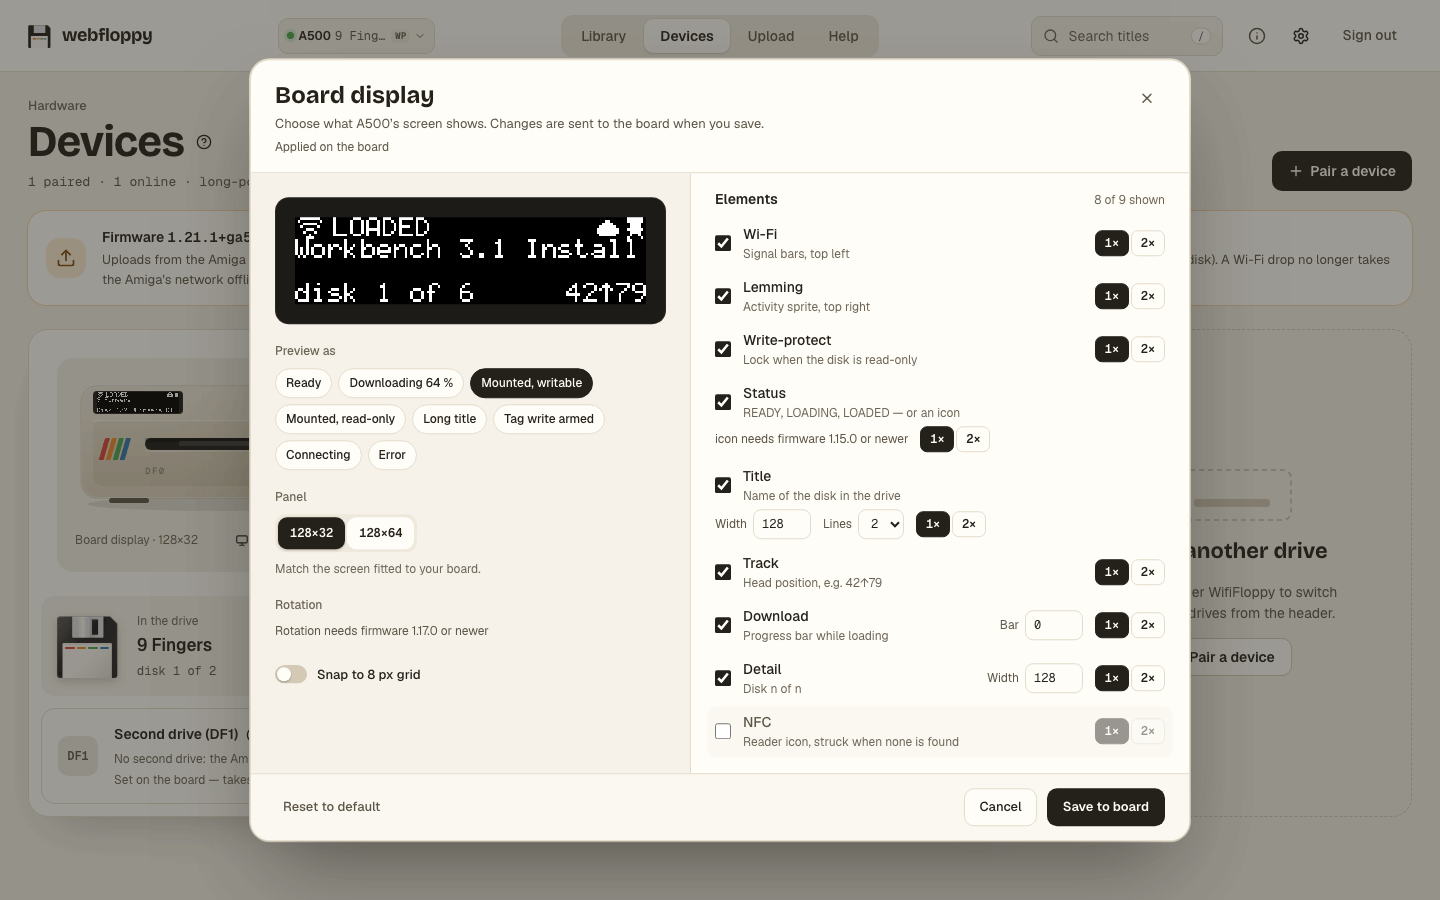
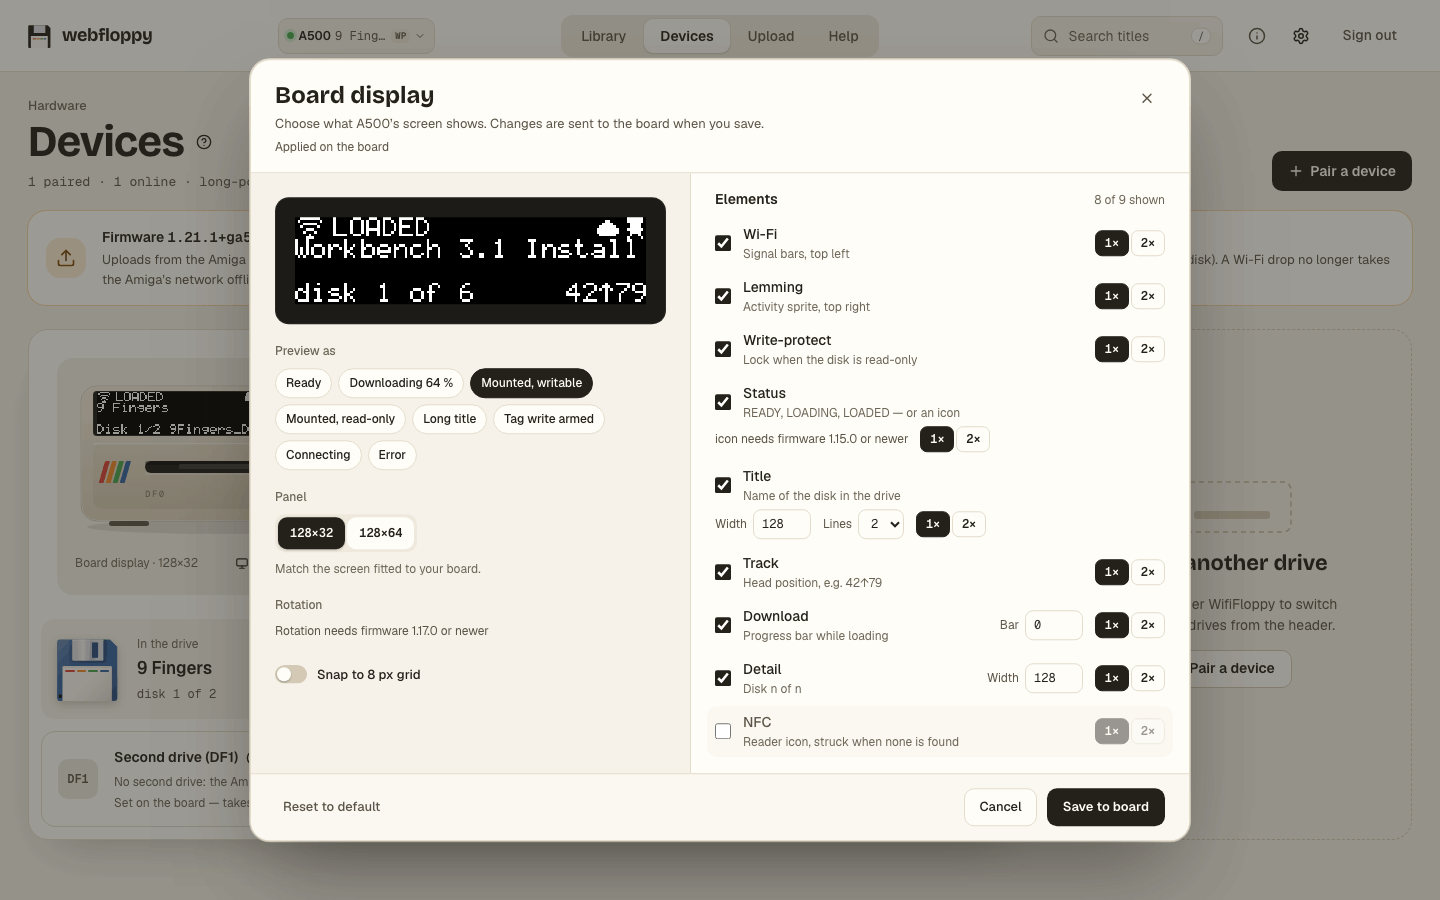
Devices: the board's OLED is drawn twice as large (180 of 304 units); the drive case grows to fit it
Claude-Session: https://claude.ai/code/session_014S2nFFB6otda3iPEfAnuwc

diff --git a/src/components/devices/drive-glass.tsx b/src/components/devices/drive-glass.tsx
@@ -8,7 +8,7 @@ import { paintFramebuffer } from '@/lib/display-paint';
 import { liveDisplayState, liveDisplayText } from '@/lib/live-display';
 import type { DeviceListItem } from '@/lib/queries';
 import { fromBase64 } from './display-editor';
-import { ART_H, ART_TALL_EXTRA, ART_W } from './drive-art';
+import { artHeight, ART_W, GLASS_W } from './drive-art';
 
 const ZOOM = 2;
 // The lemming's walk, at the editor's pace (display-editor.tsx).
@@ -18,7 +18,7 @@ const TICK_MS = 500;
  * The board's own screen, drawn over `DriveArt` (spec §3). The OLED is display.wasm -- the firmware's own renderer --
  * drawing the board's stored layout with what the board last reported (live-display.ts), so it is the board's
  * screen, not a picture of one. It is the button that opens the display editor, placed in percentages of the art's
- * viewBox (18 / 11 / 90 of 304 x 132; the 128x64 case is 153 tall) so it scales with the SVG.
+ * viewBox (left 18, top 11, GLASS_W wide; drive-art.tsx sizes the case around it) so it scales with the SVG.
  */
 export function DriveGlass({ device, online, onOpenDisplay }: {
   device: DeviceListItem; online: boolean; onOpenDisplay: (from: HTMLElement) => void;
@@ -66,13 +66,13 @@ export function DriveGlass({ device, online, onOpenDisplay }: {
   });
 
   const words = failed ? 'Display preview unavailable' : liveDisplayText(state);
-  const artH = ART_H + (rows === 64 ? ART_TALL_EXTRA : 0);
+  const artH = artHeight(rows === 64);
   return (
     <button type="button" onClick={(e) => onOpenDisplay(e.currentTarget)} aria-haspopup="dialog"
             aria-label={`Change display — showing: ${words}`}
             data-testid={`device-oled-${device.id}`} data-oled={words}
             className="absolute box-border block cursor-pointer rounded-[4px] bg-[#1C1B18] px-1 py-px shadow-[inset_0_0_0_1px_rgb(255_255_255/.06)] transition-transform hover:-translate-y-px hover:ring-2 hover:ring-[#EE8A2A] motion-reduce:transition-none motion-reduce:hover:translate-y-0 motion-reduce:hover:ring-0"
-            style={{ left: `${(18 / ART_W) * 100}%`, top: `${(11 / artH) * 100}%`, width: `${(90 / ART_W) * 100}%` }}>
+            style={{ left: `${(18 / ART_W) * 100}%`, top: `${(11 / artH) * 100}%`, width: `${(GLASS_W / ART_W) * 100}%` }}>
       <canvas ref={canvasRef} width={PANEL_W * ZOOM} height={rows * ZOOM}
               className="block h-auto w-full"
               style={{ background: '#000000', aspectRatio: `${PANEL_W} / ${rows}`, imageRendering: 'pixelated' }} />

diff --git a/src/components/devices/drive-art.tsx b/src/components/devices/drive-art.tsx
@@ -6,13 +6,27 @@ import { useId } from 'react';
  * only the LED follows the tokens (online / danger). Nothing on it is interactive: the board's screen is
  * `DriveGlass`, placed over it in percentages.
  *
- * `tall`: the 128x64 panel. The case is drawn 21 units taller (viewBox height 153) and everything from the bezel down
- * moves 21 units, so the taller glass fits in the top band. Gradient ids carry a per-instance suffix: an SVG id is
+ * The glass is drawn GLASS_W (180) of the art's 304 units wide -- twice the design's 90, which the operator found too
+ * small to read (2026-10-25). The case grows to fit it: 23 units taller for the 128x32 panel (viewBox 304 x 155), 68
+ * for the 128x64 one (`tall`, 304 x 200), and everything from the bezel down moves by that much, so the glass sits in
+ * the top band above the bezel. Gradient ids carry a per-instance suffix: an SVG id is
  * document-wide and two cards on a page must not share one.
  */
 export const ART_W = 304;
 export const ART_H = 132;
-export const ART_TALL_EXTRA = 21;
+export const GLASS_W = 180;
+const EXTRA = 23;
+const TALL_EXTRA = 68;
+
+/** The glass's height in art units: the panel at GLASS_W wide plus its 1-unit frame top and bottom. */
+export function glassHeight(tall: boolean): number {
+  return (GLASS_W * (tall ? 64 : 32)) / 128 + 2;
+}
+
+/** The art's viewBox height for the panel. */
+export function artHeight(tall: boolean): number {
+  return ART_H + (tall ? TALL_EXTRA : EXTRA);
+}
 
 export function DriveArt({ name, online, hasDisk, tall }: {
   name: string; online: boolean; hasDisk: boolean; tall: boolean;
@@ -21,7 +35,7 @@ export function DriveArt({ name, online, hasDisk, tall }: {
   const caseId = `mdCase${uid}`;
   const bezelId = `mdBezel${uid}`;
   const glowId = `mdGlow${uid}`;
-  const dy = tall ? ART_TALL_EXTRA : 0;
+  const dy = artHeight(tall) - ART_H;
   const led = online ? 'var(--online-dot)' : 'var(--danger-fg)';
   const aria = `${name}, ${online ? 'online' : 'offline'}, ${hasDisk ? 'disk in drive' : 'drive empty'}`;
   return (

diff --git a/src/components/devices/drive-art.test.ts b/src/components/devices/drive-art.test.ts
@@ -1,15 +1,23 @@
 import { createElement } from 'react';
 import { renderToStaticMarkup } from 'react-dom/server';
 import { describe, expect, it } from 'vitest';
-import { DriveArt } from './drive-art';
+import { ART_W, DriveArt, GLASS_W, glassHeight } from './drive-art';
 
 const render = (props: Partial<Parameters<typeof DriveArt>[0]> = {}) =>
   renderToStaticMarkup(createElement(DriveArt, { name: 'A500', online: true, hasDisk: true, tall: false, ...props }));
 
 describe('DriveArt', () => {
-  it('draws the 128x32 case at 304 x 132 and the 128x64 case 21 units taller', () => {
-    expect(render()).toContain('viewBox="0 0 304 132"');
-    expect(render({ tall: true })).toContain('viewBox="0 0 304 153"');
+  it('draws the case tall enough for the doubled glass: 304 x 155 for 128x32, 304 x 200 for 128x64', () => {
+    expect(render()).toContain('viewBox="0 0 304 155"');
+    expect(render({ tall: true })).toContain('viewBox="0 0 304 200"');
+  });
+
+  it('gives the glass 180 of the 304 units (twice the old 90), and its band ends above the bezel', () => {
+    expect(GLASS_W).toBe(180);
+    expect(GLASS_W / ART_W).toBeGreaterThan(0.59);
+    // glass top 11 + its height must stay clear of the bezel, which starts at 40 + the case's extra height
+    expect(11 + glassHeight(false)).toBeLessThanOrEqual(40 + 23);
+    expect(11 + glassHeight(true)).toBeLessThanOrEqual(40 + 68);
   });
 
   it('names the board, its status and the drive in the aria-label', () => {
